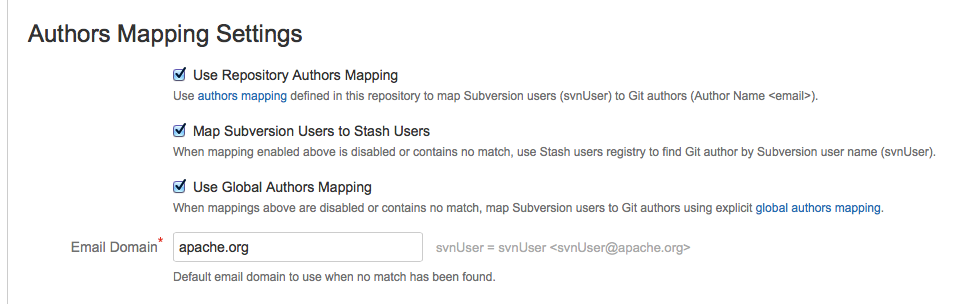
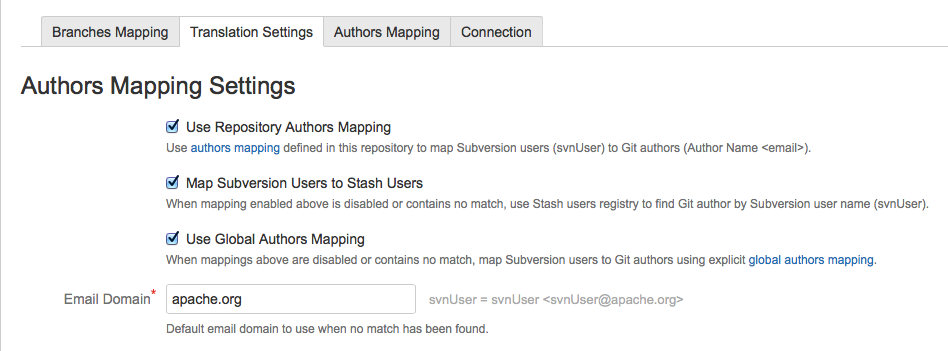
separated import and mirror, added tabs to the pics

diff --git a/documentation/stash/2.3 Specify the details.md b/documentation/stash/2.3 Specify the details.md
@@ -1,0 +1,32 @@
+---
+title: "2.3 Specify the details"
+category: chapter
+booktype: stash
+weight: 13
+---
+###2.3 Specify the details
+
+Specify Subversion URL:
+![SVN Mirror Add-on for Atlassian Stash]({{ site.baseurl }}/img/stash/103_repository_url.png)
+
+Let plugin know if you want to import a project as an logged-in user.
+You can specify Subversion credentials as username/password, SSH private key or SSL client certificate. Add-on might also use Subversion authentication cache.
+
+![SVN Mirror Add-on for Atlassian Stash]({{ site.baseurl }}/img/stash/103_credentials.png)
+
+Choose your way of dealing with branches and tags translation. 
+You may configure it manually, you may not bother if all you have is a single directory
+![SVN Mirror Add-on for Atlassian Stash]({{ site.baseurl }}/img/stash/103_repository_layout.png)
+
+or you could try doing it automatically - you'll need to specify the 'trunk' directory.
+It does not have to have actual 'trunk' name, but it has to be the main branch directory in the SVN repository, like 'main', 'develop' etc. Add-on will explore the history of this branch and find all other branches automatically. Keep in mind, this process might take a while.
+![SVN Mirror Add-on for Atlassian Stash]({{ site.baseurl }}/img/stash/103_trunk_path.png)
+
+Specify the default e-mail domain for authors mapping.
+It would be used for the SVN authors which don't have match in local and global authors mapping configuration.
+![SVN Mirror Add-on for Atlassian Stash]({{ site.baseurl }}/img/stash/103_authors_mapping.png)
+
+
+And press **Continue**
+
+[](#up)

diff --git a/documentation/stash/1.3 Specify the details.md b/documentation/stash/1.3 Specify the details.md
@@ -1,0 +1,32 @@
+---
+title: "1.3 Specify the details"
+category: chapter
+booktype: stash
+weight: 4
+---
+###1.3 Specify the details
+
+Specify Subversion URL:
+![SVN Mirror Add-on for Atlassian Stash]({{ site.baseurl }}/img/stash/103_repository_url.png)
+
+Let plugin know if you want to import a project as an logged-in user.
+You can specify Subversion credentials as username/password, SSH private key or SSL client certificate. Add-on might also use Subversion authentication cache.
+
+![SVN Mirror Add-on for Atlassian Stash]({{ site.baseurl }}/img/stash/103_credentials.png)
+
+Choose your way of dealing with branches and tags translation. 
+You may configure it manually, you may not bother if all you have is a single directory
+![SVN Mirror Add-on for Atlassian Stash]({{ site.baseurl }}/img/stash/103_repository_layout.png)
+
+or you could try doing it automatically - you'll need to specify the 'trunk' directory.
+It does not have to have actual 'trunk' name, but it has to be the main branch directory in the SVN repository, like 'main', 'develop' etc. Add-on will explore the history of this branch and find all other branches automatically. Keep in mind, this process might take a while.
+![SVN Mirror Add-on for Atlassian Stash]({{ site.baseurl }}/img/stash/103_trunk_path.png)
+
+Specify the default e-mail domain for authors mapping.
+It would be used for the SVN authors which don't have match in local and global authors mapping configuration.
+![SVN Mirror Add-on for Atlassian Stash]({{ site.baseurl }}/img/stash/103_authors_mapping.png)
+
+
+And press **Continue**
+
+[](#up)

diff --git a/documentation/stash/1.5 Adjust translation settings.md b/documentation/stash/1.5 Adjust translation settings.md
@@ -1,0 +1,29 @@
+---
+title: "1.5 Adjust translation settings"
+category: chapter
+booktype: stash
+weight: 6
+---
+###1.5 Adjust translation settings
+
+There are four options of how author mapping will be going on.
+
+At first, you could specify mathes manually at **Authors Mapping** tab.
+If this wouldn't be present or there should be no match, plugin will try to find Git authors using SVN username.
+If that wouldn't be the case, global authors mapping scheme is to be used.
+You will also need to specify your default e-mail domain.
+
+![SVN Mirror Add-on for Atlassian Stash]({{ site.baseurl }}/img/stash/105_building_authors_mapping.png)
+
+By following the **global authors mapping** link you'll get to the Global Subversion Mirror Settings. Here in the similiar text field you can specify global authors mapping settings which would work for all of your repositories.
+
+![SVN Mirror Add-on for Atlassian Stash]({{ site.baseurl }}/img/stash/106_global_authors_mapping.png)
+
+Find more details on authors mapping and SVN credentials processing at dedicated [documentation page](http://subgit.com/stash/import/authors.html).
+
+Translation settings could be set if you ran the import at least for one time.
+You can specify the start revision and decide if you need to track changes in .gitattributes or .gitignore files.
+
+![SVN Mirror Add-on for Atlassian Stash]({{ site.baseurl }}/img/stash/105_translation_settings.png)
+
+[](#up)

diff --git a/documentation/stash/1.8 Start import.md b/documentation/stash/1.8 Start import.md
@@ -1,0 +1,18 @@
+---
+title: "1.8 Start import"
+category: chapter
+booktype: stash
+weight: 9
+---
+
+###1.8 Start import
+
+Finally, click **Import** button. The progress bar will start, it might take a while depending on the size and amound of files and on your connection.
+SVN Mirror updates header as soon as import is done. Now you have Git repository with contents of specified Subversion repository. You can use it as a normal Git repository hosted by Atlassian Stash.
+
+![SVN Mirror Add-on for Atlassian Stash]({{ site.baseurl }}/img/stash/109_in_progress.png)
+
+After the import is done  you can turn you imported repository into the mirror anytime by simply clicking the **Enable** button.
+![SVN Mirror Add-on for Atlassian Stash]({{ site.baseurl }}/img/stash/109_enable.png)
+
+[](#up)

diff --git a/documentation/stash/2.8 Enable mirror.md b/documentation/stash/2.8 Enable mirror.md
@@ -1,14 +1,14 @@
 ---
-title: "8. Enable Mirror"
+title: "2.8 Enable Mirror"
 category: chapter
 booktype: stash
-weight: 8
+weight: 18
 ---
-##8. Enable Mirror
+###2.8 Enable Mirror
 
-Finally, click **Mirror** button to start initial connection process.*
+Finally, click **Mirror** button to start initial connection process.
+The progress bar will start, it might take a while depending on the size and amound of files and on your connection.
 
-Wait for a bit and that's all. 
 SVN Mirror updates header as soon as import is done. Now you have Git repository synchronized with specified Subversion repository. You can use it as a normal Git repository hosted by Atlassian Stash.
 You will see the commits pushed to SVN in your Git repository and vice versa.
 

diff --git a/documentation/stash/2.1 Create Git repository.md b/documentation/stash/2.1 Create Git repository.md
@@ -1,0 +1,20 @@
+---
+title: "2.1 Create Git repository"
+category: chapter
+booktype: stash
+weight: 11
+---
+
+###2.1 Create Git repository
+
+SVN Mirror Add-on is not involved in those few very first steps. Just create a project if you don't have one yet.
+
+Now you need to enter our new project and create an empty Git repository there.
+You can also use an existing repository, conflicts would be available for manual resloving.
+
+![SVN Mirror Add-on for Atlassian Stash]({{ site.baseurl }}/img/stash/101_create_repository_button.png)
+
+Give a name to your repository and click **Create Repository** button.
+![SVN Mirror Add-on for Atlassian Stash]({{ site.baseurl }}/img/stash/102_create_repository.png)
+
+[](#up)

diff --git a/documentation/stash/2.7 Adjust connection settings.md b/documentation/stash/2.7 Adjust connection settings.md
@@ -1,12 +1,12 @@
 ---
-title: "7. Connection"
+title: "2.7 Adjust connection settings"
 category: chapter
 booktype: stash
-weight: 7
+weight: 17
 ---
-##7. Connection
+###2.7 Adjust connection settings
 
-Here you can change the SVN url, or add and change credentials you would like to use.
+Here you can change the SVN URL, or add and change credentials you would like to use.
 You can also set the interval for polling Subversion for some changes. Set to zero it would say to the system to wait for your request.
 ![SVN Mirror Add-on for Atlassian Stash]({{ site.baseurl }}/img/stash/107_connection.png)
 

diff --git a/documentation/stash/1.2 Go to Subversion Mirror settings.md b/documentation/stash/1.2 Go to Subversion Mirror settings.md
@@ -1,0 +1,15 @@
+---
+title: "1.2 Go to Subversion Mirror settings"
+category: chapter
+booktype: stash
+weight: 3
+---
+###1.2. Go to Subversion Mirror settings
+
+When you are on an empty repository page, click **Actions** button in the upper left corner.
+![SVN Mirror Add-on for Atlassian Stash]({{ site.baseurl }}/img/stash/102_svn_mirror_button.png)
+
+By clicking on the button you will get to the **Subversion Mirror** page.
+![SVN Mirror Add-on for Atlassian Stash]({{ site.baseurl }}/img/stash/102_subversion_mirror.png)
+
+[](#up)

diff --git a/documentation/stash/1.1 Create Git repository.md b/documentation/stash/1.1 Create Git repository.md
@@ -1,12 +1,11 @@
 ---
-title: "1. To get strated"
+title: "1.1 Create Git repository"
 category: chapter
 booktype: stash
-weight: 1
+weight: 2
 ---
-Prerequisites: Using this manual you would be able to create a mirror or to make an one-time import for your SVN project. You should be **Repository Administrator** in order to mirror SVN repository to Git.
 
-##1. To get started
+###1.1 Create Git repository
 
 SVN Mirror Add-on is not involved in those few very first steps. Just create a project if you don't have one yet.
 

diff --git a/documentation/stash/2.6 Adjust authors mapping.md b/documentation/stash/2.6 Adjust authors mapping.md
@@ -1,0 +1,15 @@
+---
+title: "2.6 Adjust authors mapping"
+category: chapter
+booktype: stash
+weight: 16
+---
+###2.6 Adjust authors mapping
+
+Here you can describe your custom mapping with an example in the field provided.
+Don't forget to turn it on by setting the **Use Repository Authors Mappin** option on.
+(it will be on by default, just make sure it's still there)
+
+![SVN Mirror Add-on for Atlassian Stash]({{ site.baseurl }}/img/stash/106_custom_authors_mapping.png)
+
+[](#up)

diff --git a/documentation/stash/1.7 Adjust connection settings.md b/documentation/stash/1.7 Adjust connection settings.md
@@ -1,0 +1,14 @@
+---
+title: "1.7 Adjust connection settings"
+category: chapter
+booktype: stash
+weight: 8
+---
+###1.7 Adjust connection settings
+
+Here you can change the SVN URL, or add and change credentials you would like to use.
+You can also set the interval for polling Subversion for some changes. Set to zero it would say to the system to wait for your request.
+![SVN Mirror Add-on for Atlassian Stash]({{ site.baseurl }}/img/stash/107_connection.png)
+
+[](#up)
+

diff --git a/documentation/stash/2.2 Go to Subversion Mirror settings.md b/documentation/stash/2.2 Go to Subversion Mirror settings.md
@@ -1,10 +1,10 @@
 ---
-title: "2. Go to Subversion Mirror settings"
+title: "2.2 Go to Subversion Mirror settings"
 category: chapter
 booktype: stash
-weight: 2
+weight: 12
 ---
-##2. Go to Subversion Mirror settings
+###2.2. Go to Subversion Mirror settings
 
 When you are on an empty repository page, click **Actions** button in the upper left corner.
 ![SVN Mirror Add-on for Atlassian Stash]({{ site.baseurl }}/img/stash/102_svn_mirror_button.png)
